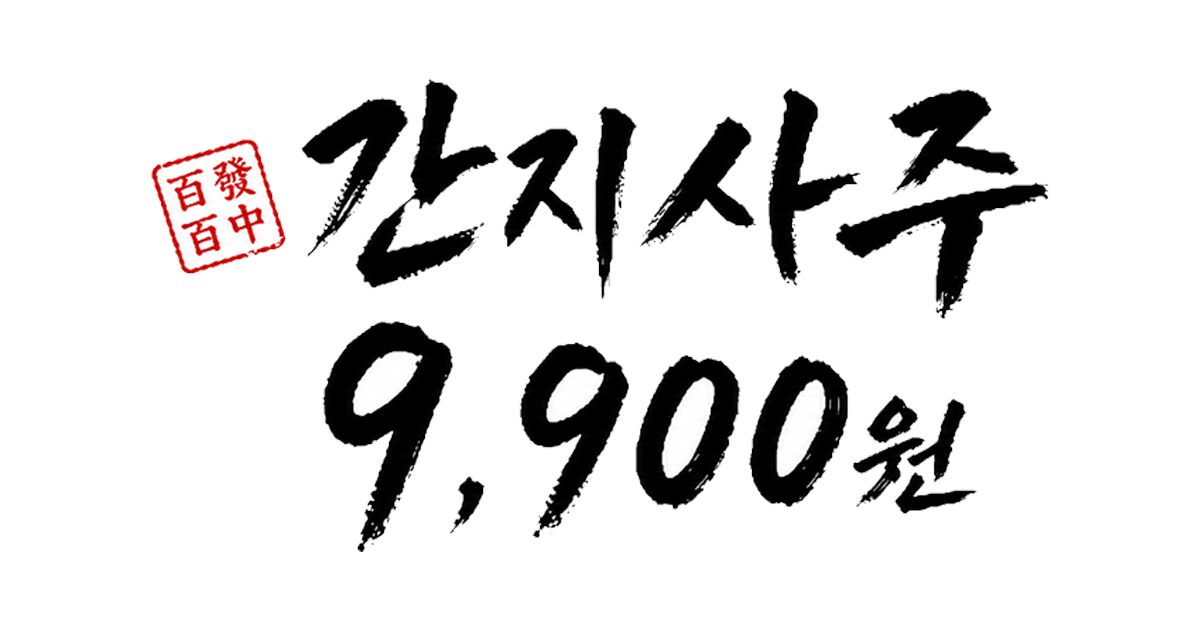
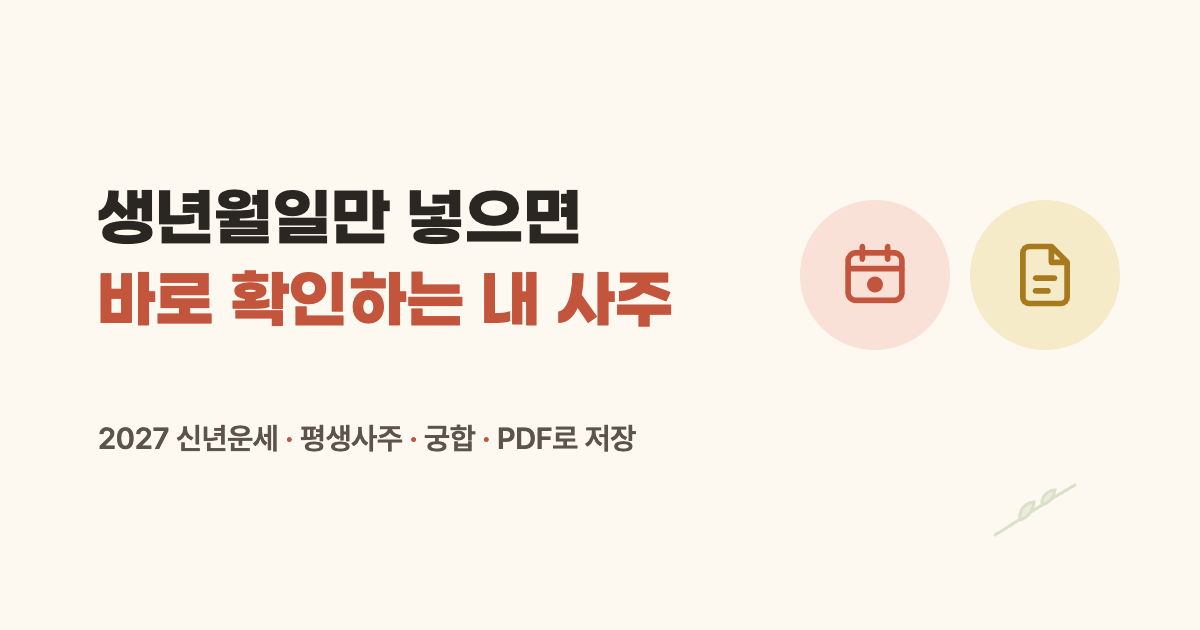
feat(seo): 링크 미리보기 썸네일을 안내형 이미지로 교체(가격·한자 도장 제거) (#949)

Changed region(s): [[0.0617, 0.1206, 0.9558, 0.8746], [0.8325, 0.754, 0.8942, 0.8444], [0.37, 0.754, 0.4008, 0.8444]]

diff --git a/PROGRESS.md b/PROGRESS.md
@@ -1,5 +1,12 @@
 # 간지사주 — 작업 진행 정리
 
+## 2026-10-11 — 링크 미리보기 썸네일 교체
+
+- 이용자 의견: 링크 공유 시 "간지사주 9,900원" 붓글씨 썸네일 대신 안내형 썸네일. 기존 이미지엔 한자 도장(百發百中)도 있었다(한자 금지 위반).
+- 새 이미지(1200×630, 사용자 선택 A안): 크림색 바탕, "생년월일만 넣으면 / 바로 확인하는 내 사주"(강조색), "2027 신년운세 · 평생사주 · 궁합 · PDF로 저장", 달력·문서 아이콘. 가격·"무료"·과장·상담 신청 문구 없음, 하단 브랜드·주소는 사용자 요청으로 제외.
+- `public/images/gangi/og-image.png` 교체 — layout·site·page-metadata·structured-data 모두 같은 파일.
+- 남은 일: 카카오톡은 페이지별로 썸네일을 저장해 두므로, 이미 공유된 링크는 카카오 공유 디버거에서 캐시 초기화 필요.
+
 ## 2026-10-11 — 평생 PDF 흐름 인쇄(1단계: 쪽 수 축소)
 
 - 사용자: "내 평생풀이가 98장 — 50장 정도로. 글씨 축소·내용 축소는 싫다."
